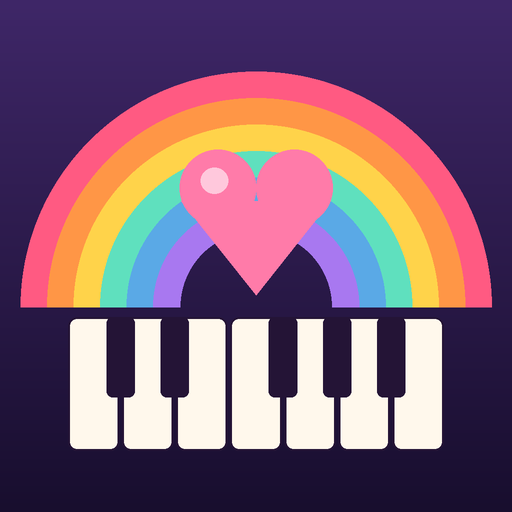
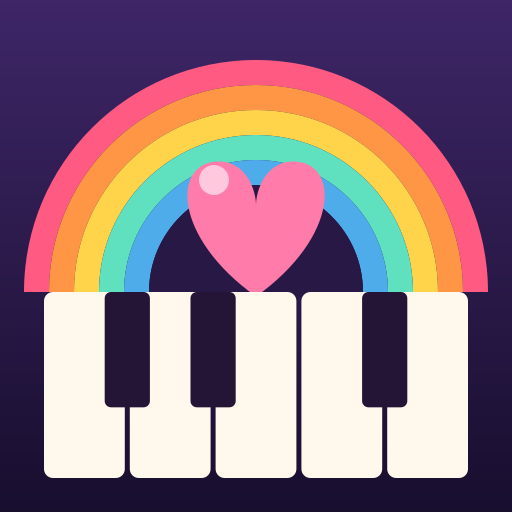
아이콘 교체 — 건반 5개로 줄이고 피아노 크게 (v16)
PNG 한 장뿐이던 아이콘을 벡터(SVG)로 복원해 원본으로 삼음.
색·좌표는 기존 PNG 를 픽셀 단위로 측정해 맞춤.
이제 sarangnara-app/make-icon.mjs 로 어떤 크기든 생성 가능(애플용 1024 포함).

Claude-Session: https://claude.ai/code/session_01Ejd8bLeC7LADSeNg44BBSH

diff --git a/sw.js b/sw.js
@@ -1,6 +1,6 @@
 /* 사랑나라 서비스워커 — 오프라인 캐시
    게임을 고칠 때마다 아래 VER 숫자를 1 올리면 새 버전이 반영됩니다. */
-const VER = 'sarangnara-v15';
+const VER = 'sarangnara-v16';
 const FILES = [
   './',
   './index.html',